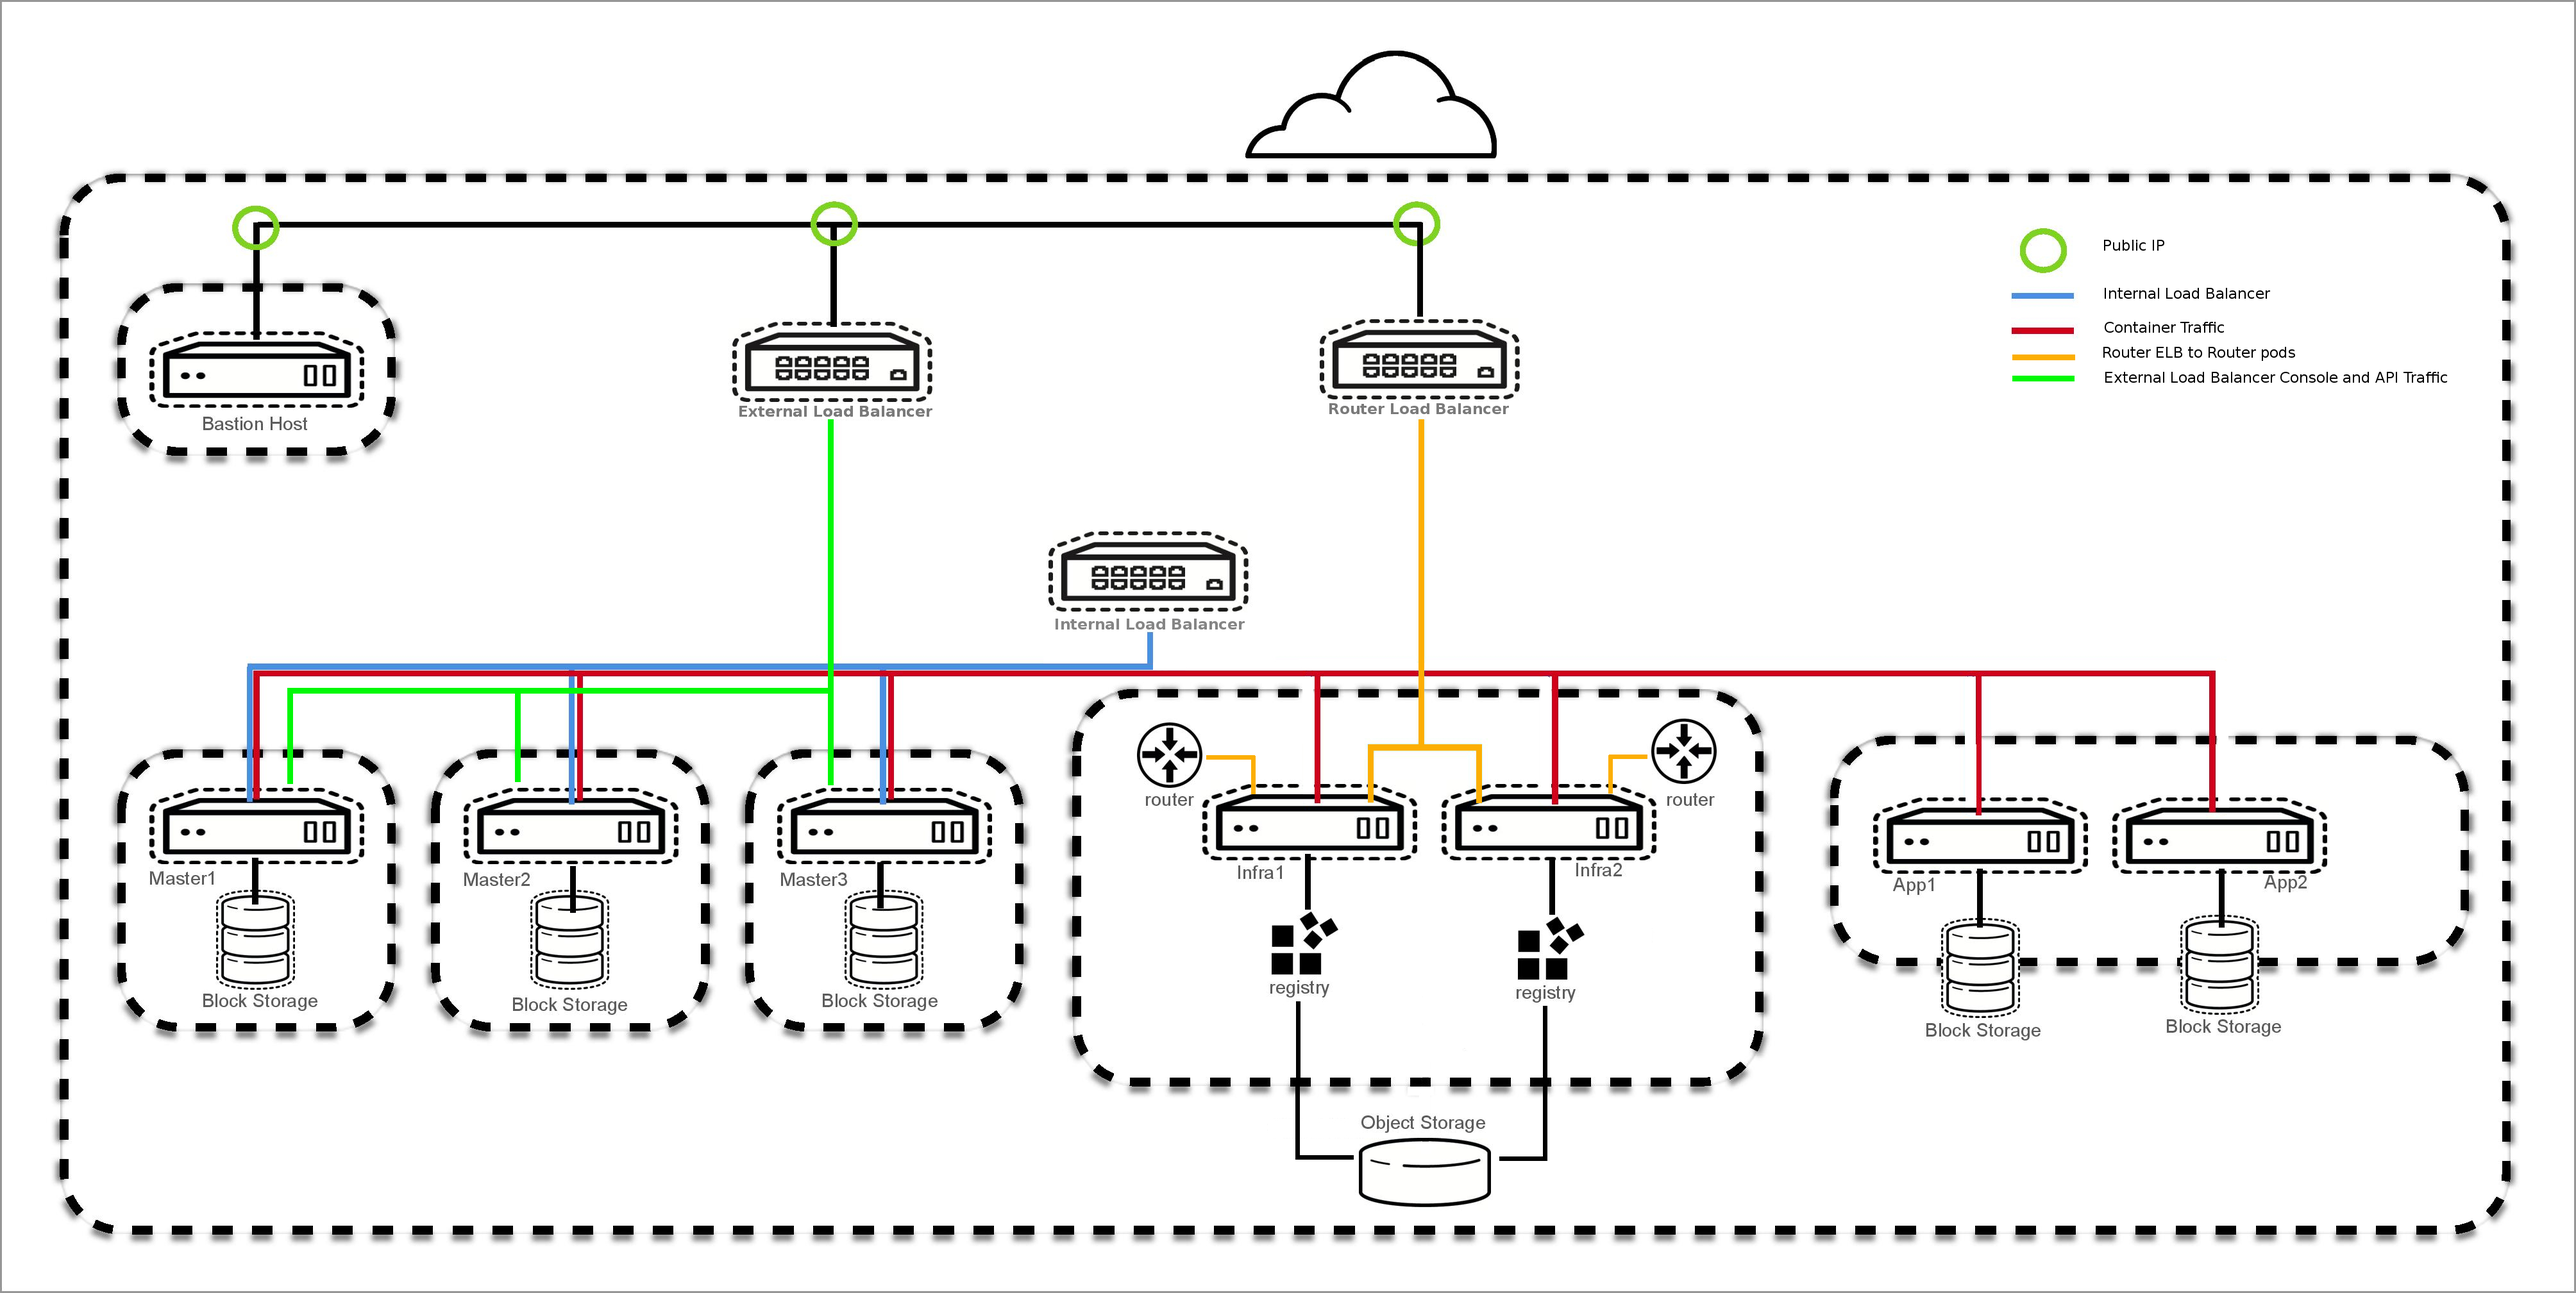
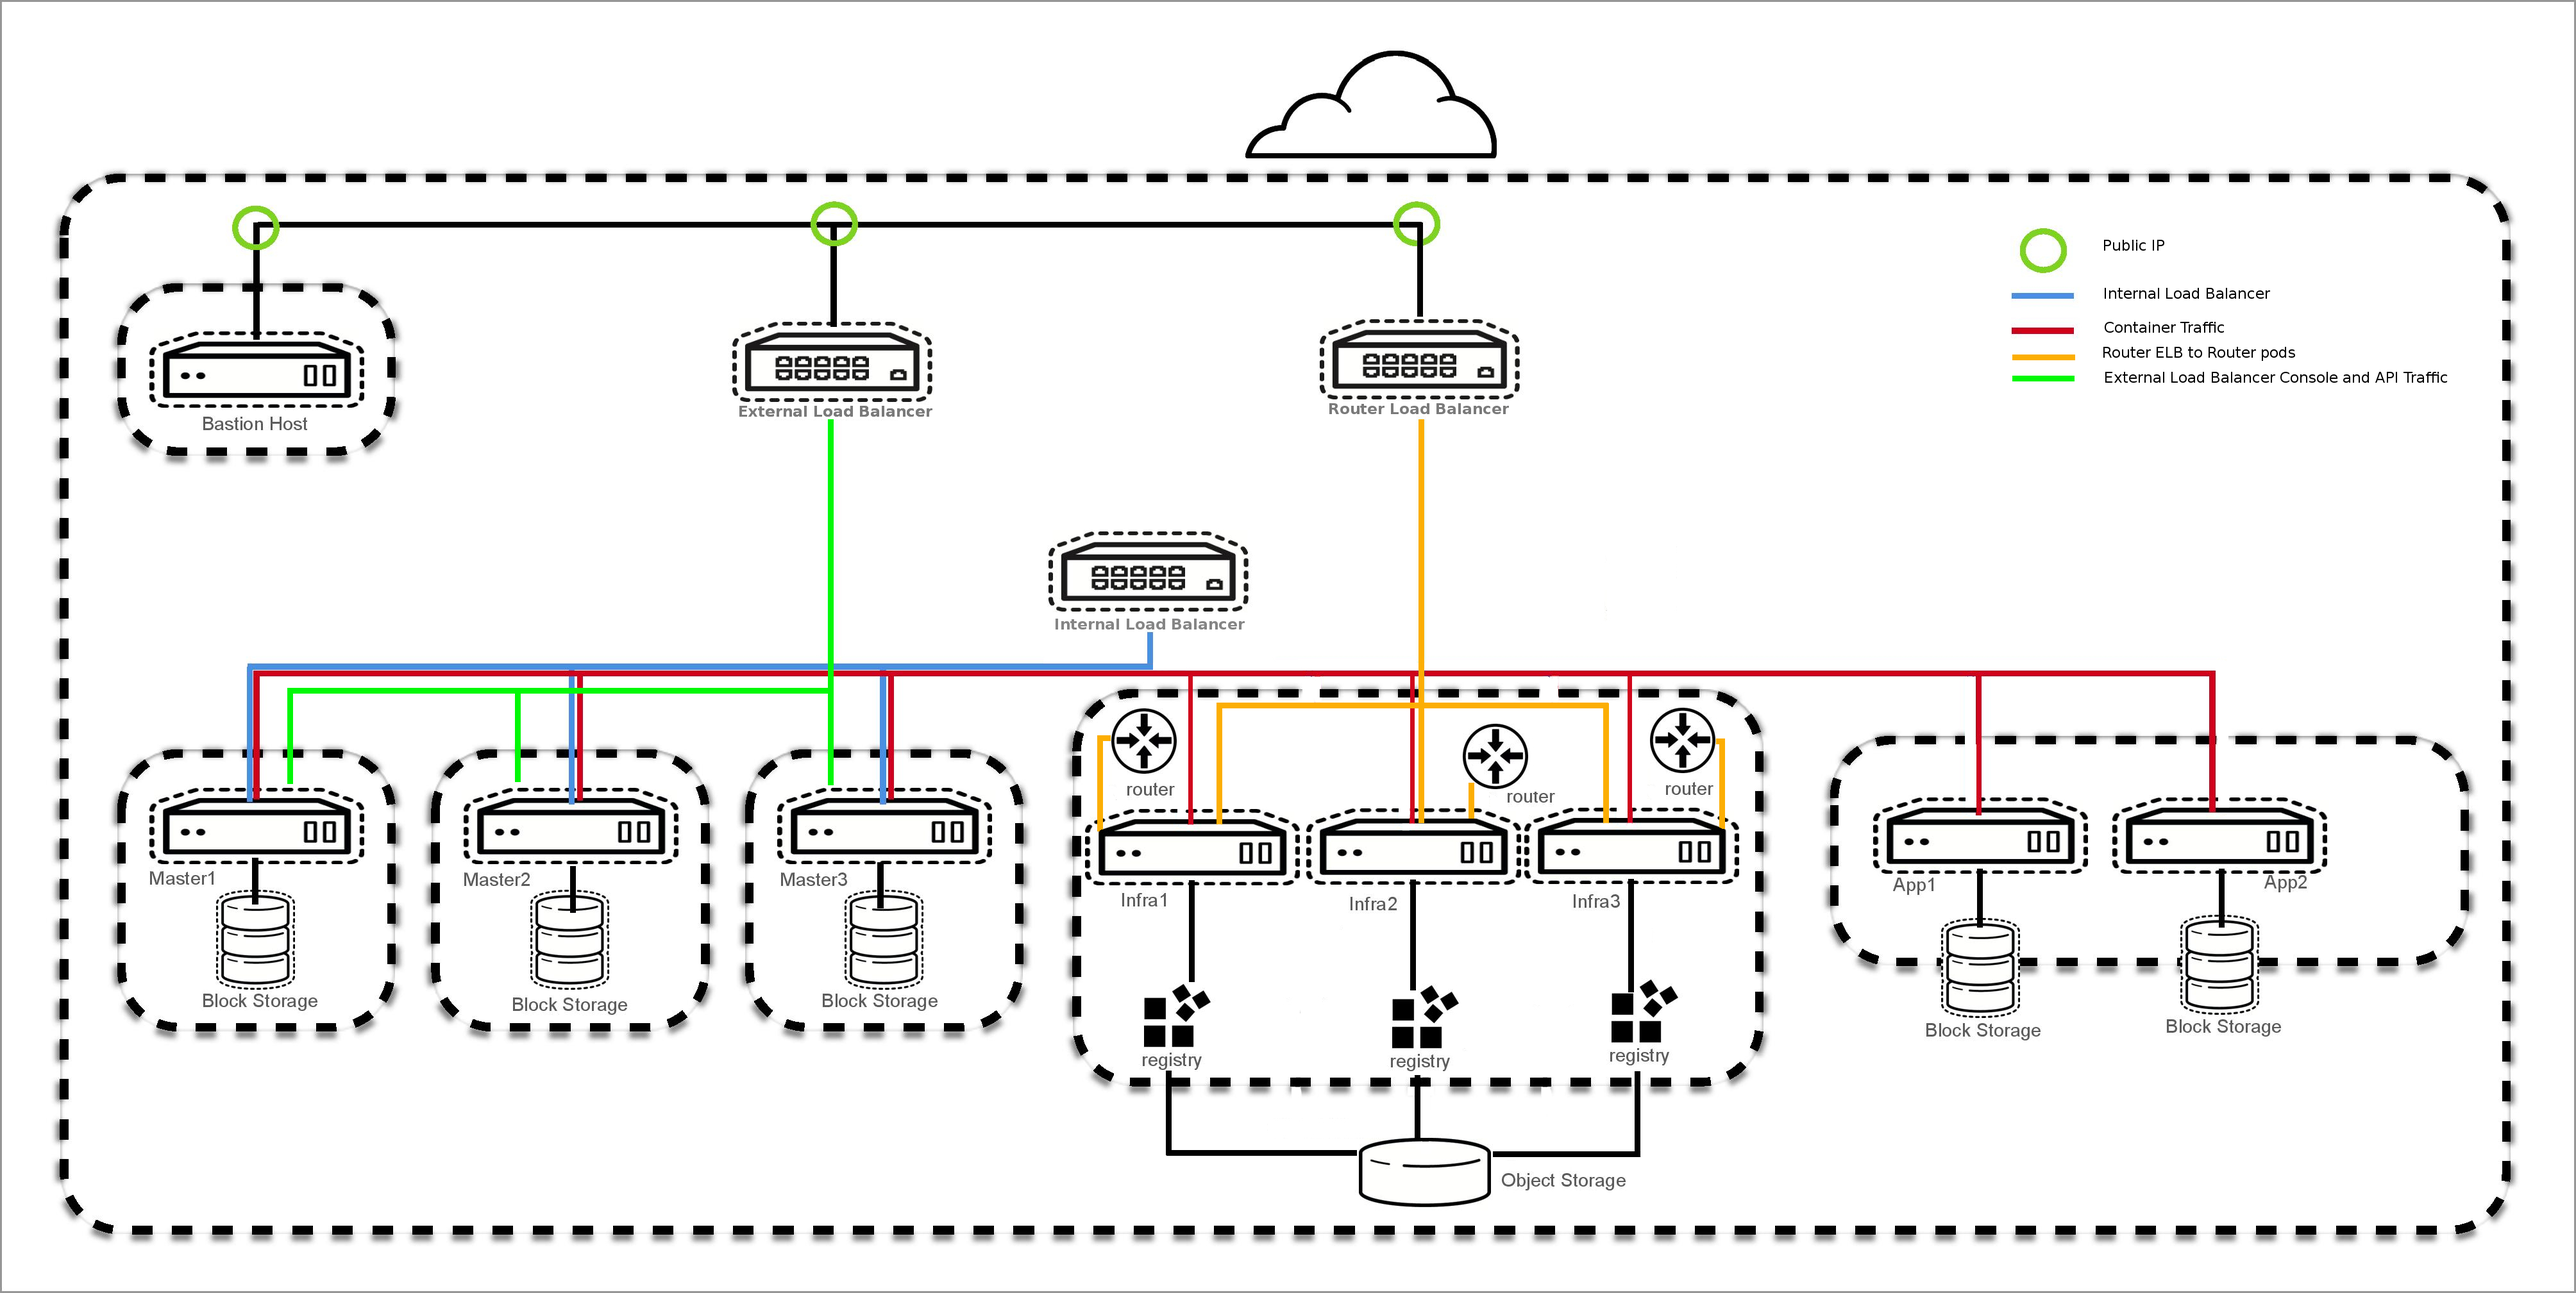
3 infra nodes for 0 downtime upgrade

diff --git a/reference-architecture/aws-ansible/README.md b/reference-architecture/aws-ansible/README.md
@@ -2,7 +2,7 @@
 This repository contains the scripts used to deploy an OpenShift Container Platform or OpenShift Origin environment based off of the Reference Architecture Guide for OCP 3.3 on Amazon Web Services.
 
 ## Overview
-The repository contains Ansible playbooks which deploy 3 Masters in different availability zones, 2 infrastructure nodes and 2 applcation nodes. The Infrastrucute and Application nodes are split between two availbility zones.  The playbooks deploy a Docker registry and scale the router to the number of Infrastruture nodes.
+The repository contains Ansible playbooks which deploy 3 Masters in different availability zones, 3 infrastructure nodes and 2 applcation nodes. The Infrastrucute and Application nodes are split between availbility zones.  The playbooks deploy a Docker registry and scale the router to the number of Infrastruture nodes.
 
 ![Architecture](images/arch.jpg)
 
